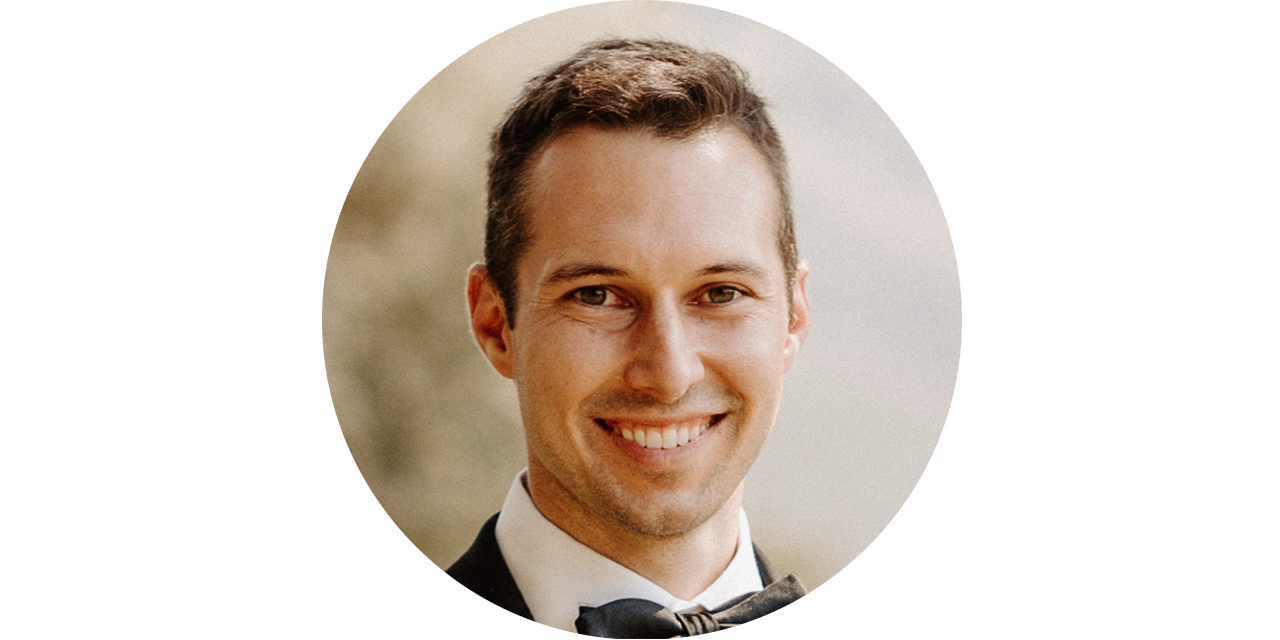
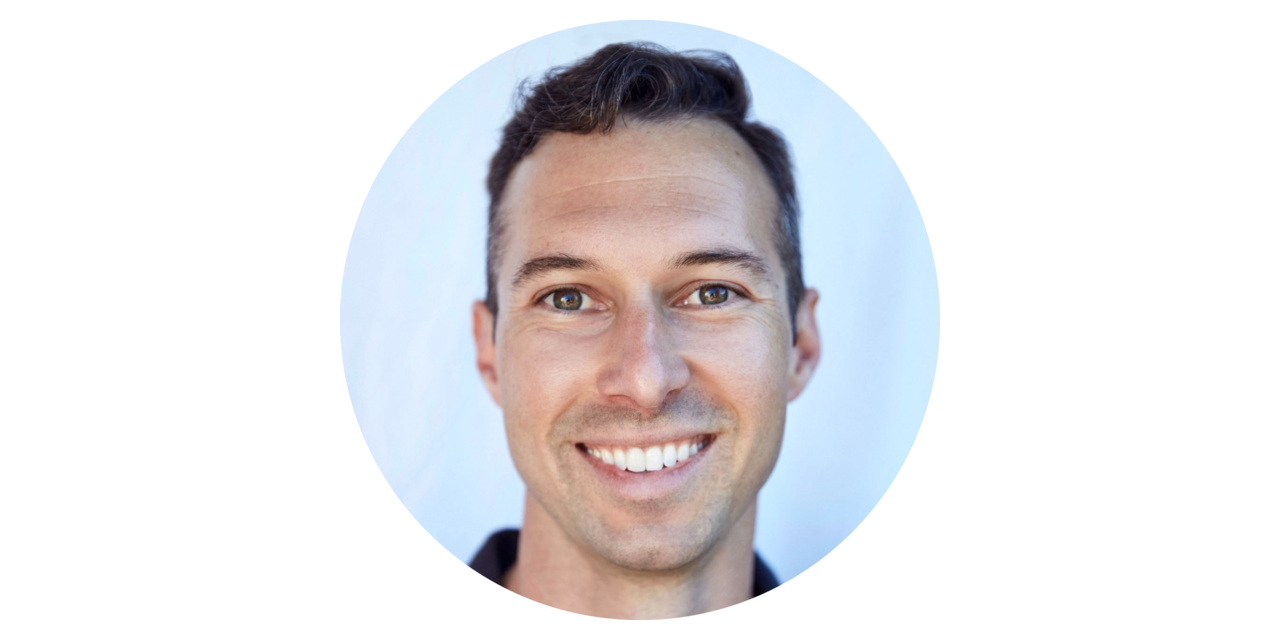
update headshot and trips/zambia (#1)
* add zambia mission trip page at /trips/zambia

Unlisted page (not added to posts array) rendered by new TripPage
component, with markdown content in public/markdown/trips/zambia.md
and a QR code (public/assets/zambia/qr.png) shown at the bottom
with a download button.

* hide nav bar on /trips/* routes

Trip pages are intended for scan-to-view sharing, so the site nav is
hidden to keep the page focused on its own content.

* add share button to trip page with clipboard fallback

Uses the Web Share API to open the native share sheet on iOS/Android,
falls back to copying the page URL to the clipboard (with snackbar
feedback) on desktop or when Web Share is unavailable.

* update zambia trip page intro and add shenebergers photo

Combined the "Why We're Going" section into the intro and generalized
the language so it reads from the team's collective voice rather than
the Hoogendam family's. Added a resized JPEG of Robb & Naomi
Sheneberger (~200 KB) linked to their Instagram post.

* update zambia trip page content

Add an "About the Hoogendams" paragraph (in third person), drop the
contact / drop-off section, drop the "bring to Doug" subhead from
the Buy-in-America list, add Smart Phones to that list, and reword
the laptop bullet.

* refresh site icons and headshot from new photo

Regenerate favicon, apple-touch-icon, PWA icons, OG share card, and
bio-page headshot from a new square portrait. Switch the bio-page
[…]

diff --git a/src/components/TripPage.js b/src/components/TripPage.js
@@ -1,0 +1,117 @@
+import { useEffect, useState } from 'react';
+import { Box, Button, Snackbar } from '@mui/material';
+import Typography from '@mui/material/Typography';
+import DownloadIcon from '@mui/icons-material/Download';
+import ShareIcon from '@mui/icons-material/Share';
+import Markdown from './Markdown';
+
+export default function TripPage({ title, mdFileName, qrBasePath, shareText }) {
+  const [snack, setSnack] = useState({ open: false, message: '' });
+
+  useEffect(() => {
+    const prev = document.title;
+    document.title = `${title} | DougIssi`;
+    return () => { document.title = prev; };
+  }, [title]);
+
+  const handleShare = async () => {
+    const url = window.location.href;
+    const payload = { title, url, ...(shareText ? { text: shareText } : {}) };
+
+    if (navigator.share) {
+      try {
+        await navigator.share(payload);
+        return;
+      } catch (err) {
+        if (err.name === 'AbortError') return; // user dismissed share sheet
+        // otherwise fall through to clipboard
+      }
+    }
+
+    if (navigator.clipboard && window.isSecureContext) {
+      try {
+        await navigator.clipboard.writeText(url);
+        setSnack({ open: true, message: 'Link copied to clipboard' });
+        return;
+      } catch {
+        // fall through
+      }
+    }
+
+    setSnack({ open: true, message: `Copy this link: ${url}` });
+  };
+
+  return (
+    <div style={{ paddingTop: '10px' }}>
+      <Typography
+        variant="h4"
+        component="div"
+        style={{
+          margin: 'auto',
+          maxWidth: '1000px',
+          paddingRight: '5%',
+          paddingLeft: '5%',
+        }}
+      >
+        {title}
+      </Typography>
+      <Markdown fileName={mdFileName} />
+      {qrBasePath && (
+        <Box
+          sx={{
+            maxWidth: '1000px',
+            margin: 'auto',
+            paddingLeft: '5%',
+            paddingRight: '5%',
+            paddingTop: '24px',
+            paddingBottom: '32px',
+            textAlign: 'center',
+          }}
+        >
+          <Typography variant="h5" component="h2" gutterBottom>
+            Share this page
+          </Typography>
+          <Button
+            variant="contained"
+            size="large"
+            startIcon={<ShareIcon />}
+            onClick={handleShare}
+            sx={{ marginBottom: 3 }}
+          >
+            Share
+          </Button>
+          <Typography variant="body2" color="text.secondary" sx={{ marginBottom: 2 }}>
+            Or scan / print this QR code:
+          </Typography>
+          <Box
+            component="img"
+            src={`${qrBasePath}.png`}
+            alt="QR code linking to this page"
+            sx={{
+              width: 240,
+              height: 240,
+              maxWidth: '90%',
+              display: 'block',
+              margin: '0 auto 16px',
+            }}
+          />
+          <Button
+            variant="outlined"
+            startIcon={<DownloadIcon />}
+            href={`${qrBasePath}.png`}
+            download
+          >
+            Download QR code
+          </Button>
+        </Box>
+      )}
+      <Snackbar
+        open={snack.open}
+        autoHideDuration={3000}
+        onClose={() => setSnack((s) => ({ ...s, open: false }))}
+        message={snack.message}
+        anchorOrigin={{ vertical: 'bottom', horizontal: 'center' }}
+      />
+    </div>
+  );
+}

diff --git a/src/App.js b/src/App.js
@@ -1,9 +1,10 @@
 import './App.css';
-import { Route, Routes } from "react-router-dom";
+import { Route, Routes, useLocation } from "react-router-dom";
 import dayjs from 'dayjs';
 import NavBar from './components/NavBar';
 import HomePage from './components/HomePage';
 import BlogPage from './components/BlogPage';
+import TripPage from './components/TripPage';
 import { Chip, Stack } from '@mui/material';
 
 let posts = [
@@ -40,7 +41,7 @@ let posts = [
   {
     id: 12,
     title: 'HaleyIssi.com: React App on GitHub Pages with Google Sheets Database',
-    summary: 'My wife Haley has been growing some of her Instagram accounts around some her hobbies like latte art and cooking, so we desired to create a simple website where we could post referral links for products on Amazon',
+    summary: 'My (now ex-)wife Haley has been growing some of her Instagram accounts around some her hobbies like latte art and cooking, so we desired to create a simple website where we could post referral links for products on Amazon',
     mdFileName: '2024-04-18-haleyissi.md',
     // imgFileName: '/assets/images/haleyissi-logo.png',
     imgFileName: 'https://haleyissi.com/static/media/haleyissi-coffee-portrait-440kb.cd3af01ed82140f2b5df.jpg',
@@ -215,9 +216,10 @@ Object.keys(technologies).sort().forEach(tech => options.push({type: 'Technology
 Object.keys(languages).sort().forEach(lang => options.push({type: 'Language', value: lang}));
 
 function App() {
+  const hideNav = useLocation().pathname.startsWith('/trips');
   return (
     <div className="App">
-      <NavBar />
+      {!hideNav && <NavBar />}
       <Routes>
         <Route path='/' element={<HomePage posts={posts} options={options} categories={categories} technologies={technologies} languages={languages} />} />
         {posts.map(post => (
@@ -227,6 +229,16 @@ function App() {
             element={<BlogPage post={post} />}
           />
         ))}
+        <Route
+          path="trips/zambia"
+          element={
+            <TripPage
+              title="Zambia Mission Trip — June 5-15, 2026"
+              mdFileName="trips/zambia.md"
+              qrBasePath="/assets/zambia/qr"
+            />
+          }
+        />
       </Routes>
       <div style={{ margin: "10px" }}>{`© ${dayjs().year()} Douglas Issichopoulos`}</div>
     </div>

diff --git a/public/markdown/trips/zambia.md b/public/markdown/trips/zambia.md
@@ -1,0 +1,47 @@
+**Lusaka, Zambia · June 5–15, 2026**
+
+Our church, Garden Church, is sending a small team to Lusaka, Zambia — the Hoogendam family of four, along with Lexi, Leanne, Taiyler, and Doug — to scope out, pray into, and come alongside our long-time friends and outreach partners, Robb & Naomi Sheneberger.
+
+[![Robb & Naomi Sheneberger](/assets/zambia/shenebergers.jpg)](https://www.instagram.com/p/DUvAPl6DTQ6/)
+
+Zambia is strategically located, neighboring eight African nations. While in Lusaka, we'll be building the bridge between Garden and Zambia through prayer rooms, teaching, and discipleship, and creating an extensive children's library and computer lab to equip the next generation. Each of us is excited to use our unique giftings to serve, equip, and encourage — and to learn from our brothers and sisters in Africa.
+
+![Students at Chesed Academy](/assets/zambia/chesed-academy.jpg)
+
+Short-term mission trips are sometimes questioned for their effectiveness relative to the cost. Having seen the value of both long-term and short-term work, we believe this trip is worth the prayer and resources behind it — and we trust that everyone involved, both our team and those we'll serve, will be deeply impacted by the experience.
+
+Returning to the mission field with their children has been a vision of the Hoogendams' for many years. Dave and Lins met on the mission field in 2005, and this is their first time going back — as a family of four now.
+
+---
+
+## 💛 Donate
+
+Our goal is **$3,500 per person**.
+
+[**→ Donate via Garden Church**](https://gardenchurch.managedmissions.com/Donations/Donate/100202)
+
+---
+
+## 🎁 Items We Need
+
+### Buy in America
+
+- **English Bibles** — preferably New King James Version (NKJV)
+- **Soccer balls** ⭐ *highest priority* — quality and pricing in Zambia are not as favorable
+- **Ball pumps and needles**
+- **(Used) Smart Phones**
+
+### Can be bought in Zambia (donate funds toward these)
+
+- School supplies
+- Musical instruments for the preschool
+
+### Needs more information
+
+- **Laptops with Microsoft Office installed**
+  - Still checking whether Microsoft Office can be purchased one-time or only as a subscription.
+  - Mid-range laptops in Zambia run about \$650–$1,000.
+
+---
+
+*Page last updated: May 19, 2026. Check back for updates.*

diff --git a/public/markdown/bio.md b/public/markdown/bio.md
@@ -1,6 +1,6 @@
-![Doug Issichopoulos](/assets/images/doug_headshot.png)
+![Doug Issichopoulos](/assets/images/doug_headshot.jpg)
 
-My name is Doug Issichopoulos, and I am a Senior Software Engineer at [Fortinet](https://www.fortinet.com/) (after they acquired [Lacework](https://www.lacework.com/) in mid 2024). In 2023, I pursued a master's degree in computer science from UIUC where I focused primarily on distributed systems and machine learning. Prior to that I was a Senior Software Engineer at [Humanyze](https://www.humanyze.com). My undergraduate major was mathematics (Stanford '12), so it should be no surprise that I strive to write code that resembles a great math proof: easy to read, elegant, and water-tight.
+My name is Doug Issichopoulos, and I build using AI. I was a Senior Software Engineer at [Fortinet](https://www.fortinet.com/) (after they acquired [Lacework](https://www.lacework.com/) in mid 2024) through 2025. In 2023, I pursued a master's degree in computer science from UIUC where I focused primarily on distributed systems and machine learning. Prior to that I was a Senior Software Engineer at [Humanyze](https://www.humanyze.com). My undergraduate major was mathematics (Stanford '12), so it should be no surprise that I strive to write code that resembles a great math proof: easy to read, elegant, and water-tight.
 
 This website is a repository of posts on some of my personal software projects that I believe could be useful to others and/or demonstrate a particularly fun intersection of computer science and mathematics.
 

diff --git a/public/markdown/posts/2024-04-18-haleyissi.md b/public/markdown/posts/2024-04-18-haleyissi.md
@@ -20,7 +20,7 @@
 
 
 ## Motivation
-My wife Haley has been growing some of her Instagram accounts around some her hobbies like latte art and cooking, so we desired to create a simple website where we could post referral links for products on Amazon.
+My (now ex-)wife Haley has been growing some of her Instagram accounts around some her hobbies like latte art and cooking, so we desired to create a simple website where we could post referral links for products on Amazon.
 
 For those of you following along who may be creating your own web app, I'll write what I did as second-person imperative ("do this") rather than first-person simple past tense ("I did this"). Just keep an eye out for **haleyissi**-specific commands and adjust according to your needs.
 
